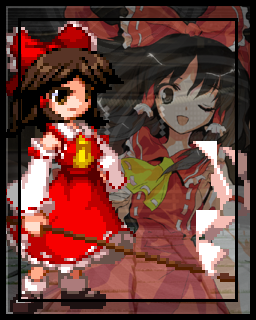
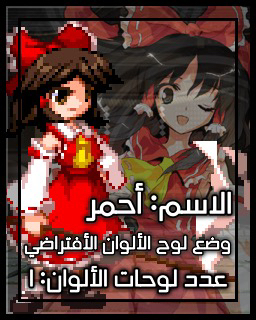
Color 001

diff --git a/wiki/locale/ar-ARB/Color-Names‐ar‐ARB.md b/wiki/locale/ar-ARB/Color-Names‐ar‐ARB.md
@@ -5,7 +5,7 @@
 
 | Pal Num. | Name of Color | Icon |
 |----------|---------------|-----------|
-| 01 | ؟؟؟ | ![ReimuColor001](https://github.com/IkuTronHD/Touhou-Kagehakuchuumu---Shadow-Daydream/blob/main/Reimu/Colors/AR/001.png) |
+| 01 | أحمر | ![ReimuColor001](https://github.com/IkuTronHD/Touhou-Kagehakuchuumu---Shadow-Daydream/blob/main/Reimu/Colors/AR/001.png) |
 | 02 | ؟؟؟ | ![ReimuColor002](https://github.com/IkuTronHD/Touhou-Kagehakuchuumu---Shadow-Daydream/blob/main/Reimu/Colors/AR/002.png) |
 | 03 | ؟؟؟ | ![ReimuColor003](https://github.com/IkuTronHD/Touhou-Kagehakuchuumu---Shadow-Daydream/blob/main/Reimu/Colors/AR/003.png) |
 | 04 | ؟؟؟ | ![ReimuColor004](https://github.com/IkuTronHD/Touhou-Kagehakuchuumu---Shadow-Daydream/blob/main/Reimu/Colors/AR/004.png) |
@@ -18,6 +18,13 @@
 | 11 | ؟؟؟ | ![ReimuColor011](https://github.com/IkuTronHD/Touhou-Kagehakuchuumu---Shadow-Daydream/blob/main/Reimu/Colors/AR/011.png) |
 | 12 | ؟؟؟ | ![ReimuColor012](https://github.com/IkuTronHD/Touhou-Kagehakuchuumu---Shadow-Daydream/blob/main/Reimu/Colors/AR/012.png) |
 | 13 | ؟؟؟ | ![ReimuColor013](https://github.com/IkuTronHD/Touhou-Kagehakuchuumu---Shadow-Daydream/blob/main/Reimu/Colors/AR/013.png) |
+| 14 | ؟؟؟ | ![ReimuColor014](https://github.com/IkuTronHD/Touhou-Kagehakuchuumu---Shadow-Daydream/blob/main/Reimu/Colors/AR/014.png) |
+| 15 | ؟؟؟ | ![ReimuColor015](https://github.com/IkuTronHD/Touhou-Kagehakuchuumu---Shadow-Daydream/blob/main/Reimu/Colors/AR/015.png) |
+| 16 | ؟؟؟ | ![ReimuColor016](https://github.com/IkuTronHD/Touhou-Kagehakuchuumu---Shadow-Daydream/blob/main/Reimu/Colors/AR/016.png) |
+| 17 | ؟؟؟ | ![ReimuColor017](https://github.com/IkuTronHD/Touhou-Kagehakuchuumu---Shadow-Daydream/blob/main/Reimu/Colors/AR/017.png) |
+| 18 | ؟؟؟ | ![ReimuColor018](https://github.com/IkuTronHD/Touhou-Kagehakuchuumu---Shadow-Daydream/blob/main/Reimu/Colors/AR/018.png) |
+| 19 | ؟؟؟ | ![ReimuColor019](https://github.com/IkuTronHD/Touhou-Kagehakuchuumu---Shadow-Daydream/blob/main/Reimu/Colors/AR/019.png) |
+| 20 | ؟؟؟ | ![ReimuColor020](https://github.com/IkuTronHD/Touhou-Kagehakuchuumu---Shadow-Daydream/blob/main/Reimu/Colors/AR/020.png) |
 | 29 | ؟؟؟ | ![ReimuColor029](https://github.com/IkuTronHD/Touhou-Kagehakuchuumu---Shadow-Daydream/blob/main/Reimu/Colors/AR/029.png) |
 | 67 | ؟؟؟ | ![ReimuColor067](https://github.com/IkuTronHD/Touhou-Kagehakuchuumu---Shadow-Daydream/blob/main/Reimu/Colors/AR/067.png) |
 | 68 | ؟؟؟ | ![ReimuColor068](https://github.com/IkuTronHD/Touhou-Kagehakuchuumu---Shadow-Daydream/blob/main/Reimu/Colors/AR/068.png) |

diff --git a/wiki/locale/es-ES/Color-Names‐es‐ES.md b/wiki/locale/es-ES/Color-Names‐es‐ES.md
@@ -18,6 +18,13 @@
 | 11 | Marrón | ![ReimuColor011](https://github.com/IkuTronHD/Touhou-Kagehakuchuumu---Shadow-Daydream/blob/main/Reimu/Colors/ES/011.png) |
 | 12 | Gensokyo 20XX | ![ReimuColor012](https://github.com/IkuTronHD/Touhou-Kagehakuchuumu---Shadow-Daydream/blob/main/Reimu/Colors/ES/012.png) |
 | 13 | Verde | ![ReimuColor012](https://github.com/IkuTronHD/Touhou-Kagehakuchuumu---Shadow-Daydream/blob/main/Reimu/Colors/ES/013.png) |
+| 14 | Azul | ![ReimuColor014](https://github.com/IkuTronHD/Touhou-Kagehakuchuumu---Shadow-Daydream/blob/main/Reimu/Colors/JA/014.png) |
+| 15 | Otro Verde | ![ReimuColor015](https://github.com/IkuTronHD/Touhou-Kagehakuchuumu---Shadow-Daydream/blob/main/Reimu/Colors/JA/015.png) |
+| 16 | Una Hoja Magenta | ![ReimuColor016](https://github.com/IkuTronHD/Touhou-Kagehakuchuumu---Shadow-Daydream/blob/main/Reimu/Colors/JA/016.png) |
+| 17 | Luigi | ![ReimuColor017](https://github.com/IkuTronHD/Touhou-Kagehakuchuumu---Shadow-Daydream/blob/main/Reimu/Colors/JA/017.png) |
+| 18 | Guile | ![ReimuColor018](https://github.com/IkuTronHD/Touhou-Kagehakuchuumu---Shadow-Daydream/blob/main/Reimu/Colors/JA/018.png) |
+| 19 | Son Goku | ![ReimuColor019](https://github.com/IkuTronHD/Touhou-Kagehakuchuumu---Shadow-Daydream/blob/main/Reimu/Colors/JA/019.png) |
+| 20 | Azul Neón | ![ReimuColor020](https://github.com/IkuTronHD/Touhou-Kagehakuchuumu---Shadow-Daydream/blob/main/Reimu/Colors/JA/020.png) |
 | 29 | Héroe del Fuego | ![ReimuColor029](https://github.com/IkuTronHD/Touhou-Kagehakuchuumu---Shadow-Daydream/blob/main/Reimu/Colors/ES/029.png) |
 | 67 | La Estatua Que Se Mueve | ![ReimuColor067](https://github.com/IkuTronHD/Touhou-Kagehakuchuumu---Shadow-Daydream/blob/main/Reimu/Colors/ES/067.png) |
 | 68 | Lo Come Todo | ![ReimuColor068](https://github.com/IkuTronHD/Touhou-Kagehakuchuumu---Shadow-Daydream/blob/main/Reimu/Colors/ES/068.png) |

diff --git a/wiki/Color-Names.md b/wiki/Color-Names.md
@@ -18,6 +18,13 @@
 | 11 | Brown | ![ReimuColor011](https://github.com/IkuTronHD/Touhou-Kagehakuchuumu---Shadow-Daydream/blob/main/Reimu/Colors/EN/011.png) |
 | 12 | Gensokyo 20XX | ![ReimuColor012](https://github.com/IkuTronHD/Touhou-Kagehakuchuumu---Shadow-Daydream/blob/main/Reimu/Colors/EN/012.png) |
 | 13 | Green | ![ReimuColor013](https://github.com/IkuTronHD/Touhou-Kagehakuchuumu---Shadow-Daydream/blob/main/Reimu/Colors/EN/013.png) |
+| 14 | Blue | ![ReimuColor014](https://github.com/IkuTronHD/Touhou-Kagehakuchuumu---Shadow-Daydream/blob/main/Reimu/Colors/EN/014.png) |
+| 15 | Another Green | ![ReimuColor015](https://github.com/IkuTronHD/Touhou-Kagehakuchuumu---Shadow-Daydream/blob/main/Reimu/Colors/EN/015.png) |
+| 16 | A Magenta Leaf | ![ReimuColor016](https://github.com/IkuTronHD/Touhou-Kagehakuchuumu---Shadow-Daydream/blob/main/Reimu/Colors/EN/016.png) |
+| 17 | Luigi | ![ReimuColor017](https://github.com/IkuTronHD/Touhou-Kagehakuchuumu---Shadow-Daydream/blob/main/Reimu/Colors/EN/013.png) |
+| 18 | Guile | ![ReimuColor018](https://github.com/IkuTronHD/Touhou-Kagehakuchuumu---Shadow-Daydream/blob/main/Reimu/Colors/EN/013.png) |
+| 19 | Son Goku | ![ReimuColor019](https://github.com/IkuTronHD/Touhou-Kagehakuchuumu---Shadow-Daydream/blob/main/Reimu/Colors/EN/013.png) |
+| 20 | Neon Blue | ![ReimuColor020](https://github.com/IkuTronHD/Touhou-Kagehakuchuumu---Shadow-Daydream/blob/main/Reimu/Colors/EN/013.png) |
 | 29 | Hero of Fire | ![ReimuColor029](https://github.com/IkuTronHD/Touhou-Kagehakuchuumu---Shadow-Daydream/blob/main/Reimu/Colors/EN/029.png) |
 | 67 | The Statue That Moves | ![ReimuColor067](https://github.com/IkuTronHD/Touhou-Kagehakuchuumu---Shadow-Daydream/blob/main/Reimu/Colors/EN/067.png) |
 | 68 | Eats Everything | ![ReimuColor068](https://github.com/IkuTronHD/Touhou-Kagehakuchuumu---Shadow-Daydream/blob/main/Reimu/Colors/EN/068.png) |

diff --git a/wiki/locale/ja-JP/Color-Names‐ja‐JP.md b/wiki/locale/ja-JP/Color-Names‐ja‐JP.md
@@ -18,6 +18,13 @@
 | 11 | ？？？ | ![ReimuColor011](https://github.com/IkuTronHD/Touhou-Kagehakuchuumu---Shadow-Daydream/blob/main/Reimu/Colors/JA/011.png) |
 | 12 | ？？？ | ![ReimuColor012](https://github.com/IkuTronHD/Touhou-Kagehakuchuumu---Shadow-Daydream/blob/main/Reimu/Colors/JA/012.png) |
 | 13 | ？？？ | ![ReimuColor013](https://github.com/IkuTronHD/Touhou-Kagehakuchuumu---Shadow-Daydream/blob/main/Reimu/Colors/JA/013.png) |
+| 14 | ？？？ | ![ReimuColor014](https://github.com/IkuTronHD/Touhou-Kagehakuchuumu---Shadow-Daydream/blob/main/Reimu/Colors/JA/014.png) |
+| 15 | ？？？ | ![ReimuColor015](https://github.com/IkuTronHD/Touhou-Kagehakuchuumu---Shadow-Daydream/blob/main/Reimu/Colors/JA/015.png) |
+| 16 | ？？？ | ![ReimuColor016](https://github.com/IkuTronHD/Touhou-Kagehakuchuumu---Shadow-Daydream/blob/main/Reimu/Colors/JA/016.png) |
+| 17 | ？？？ | ![ReimuColor017](https://github.com/IkuTronHD/Touhou-Kagehakuchuumu---Shadow-Daydream/blob/main/Reimu/Colors/JA/017.png) |
+| 18 | ？？？ | ![ReimuColor018](https://github.com/IkuTronHD/Touhou-Kagehakuchuumu---Shadow-Daydream/blob/main/Reimu/Colors/JA/018.png) |
+| 19 | ？？？ | ![ReimuColor019](https://github.com/IkuTronHD/Touhou-Kagehakuchuumu---Shadow-Daydream/blob/main/Reimu/Colors/JA/019.png) |
+| 20 | ？？？ | ![ReimuColor020](https://github.com/IkuTronHD/Touhou-Kagehakuchuumu---Shadow-Daydream/blob/main/Reimu/Colors/JA/020.png) |
 | 29 | ？？？ | ![ReimuColor029](https://github.com/IkuTronHD/Touhou-Kagehakuchuumu---Shadow-Daydream/blob/main/Reimu/Colors/JA/029.png) |
 | 67 | ？？？ | ![ReimuColor067](https://github.com/IkuTronHD/Touhou-Kagehakuchuumu---Shadow-Daydream/blob/main/Reimu/Colors/JA/067.png) |
 | 68 | ？？？ | ![ReimuColor068](https://github.com/IkuTronHD/Touhou-Kagehakuchuumu---Shadow-Daydream/blob/main/Reimu/Colors/JA/068.png) |

diff --git a/wiki/locale/ko-KR/Color-Names‐ko‐KR.md b/wiki/locale/ko-KR/Color-Names‐ko‐KR.md
@@ -18,6 +18,13 @@
 | 11 | ??? | ![ReimuColor011](https://github.com/IkuTronHD/Touhou-Kagehakuchuumu---Shadow-Daydream/blob/main/Reimu/Colors/KO/011.png) |
 | 12 | ??? | ![ReimuColor012](https://github.com/IkuTronHD/Touhou-Kagehakuchuumu---Shadow-Daydream/blob/main/Reimu/Colors/KO/012.png) |
 | 13 | ??? | ![ReimuColor013](https://github.com/IkuTronHD/Touhou-Kagehakuchuumu---Shadow-Daydream/blob/main/Reimu/Colors/KO/013.png) |
+| 14 | ??? | ![ReimuColor014](https://github.com/IkuTronHD/Touhou-Kagehakuchuumu---Shadow-Daydream/blob/main/Reimu/Colors/KO/014.png) |
+| 15 | ??? | ![ReimuColor015](https://github.com/IkuTronHD/Touhou-Kagehakuchuumu---Shadow-Daydream/blob/main/Reimu/Colors/KO/015.png) |
+| 16 | ??? | ![ReimuColor016](https://github.com/IkuTronHD/Touhou-Kagehakuchuumu---Shadow-Daydream/blob/main/Reimu/Colors/KO/016.png) |
+| 17 | ??? | ![ReimuColor017](https://github.com/IkuTronHD/Touhou-Kagehakuchuumu---Shadow-Daydream/blob/main/Reimu/Colors/KO/017.png) |
+| 18 | ??? | ![ReimuColor018](https://github.com/IkuTronHD/Touhou-Kagehakuchuumu---Shadow-Daydream/blob/main/Reimu/Colors/KO/018.png) |
+| 19 | ??? | ![ReimuColor019](https://github.com/IkuTronHD/Touhou-Kagehakuchuumu---Shadow-Daydream/blob/main/Reimu/Colors/KO/019.png) |
+| 20 | ??? | ![ReimuColor020](https://github.com/IkuTronHD/Touhou-Kagehakuchuumu---Shadow-Daydream/blob/main/Reimu/Colors/KO/020.png) |
 | 29 | ??? | ![ReimuColor029](https://github.com/IkuTronHD/Touhou-Kagehakuchuumu---Shadow-Daydream/blob/main/Reimu/Colors/KO/029.png) |
 | 67 | ??? | ![ReimuColor067](https://github.com/IkuTronHD/Touhou-Kagehakuchuumu---Shadow-Daydream/blob/main/Reimu/Colors/KO/067.png) |
 | 68 | ??? | ![ReimuColor068](https://github.com/IkuTronHD/Touhou-Kagehakuchuumu---Shadow-Daydream/blob/main/Reimu/Colors/KO/068.png) |
